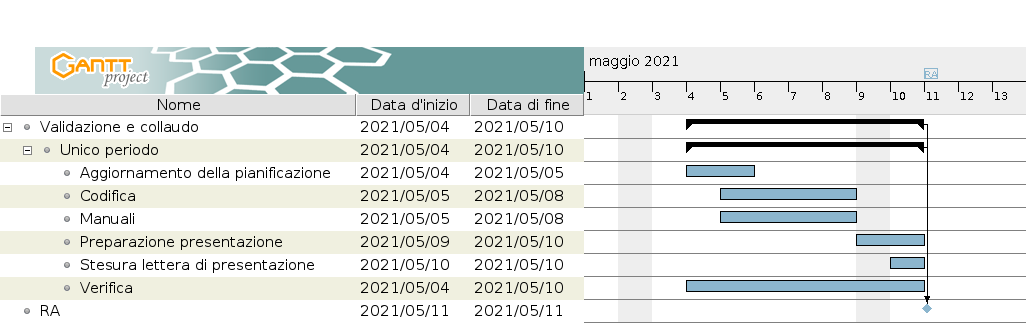
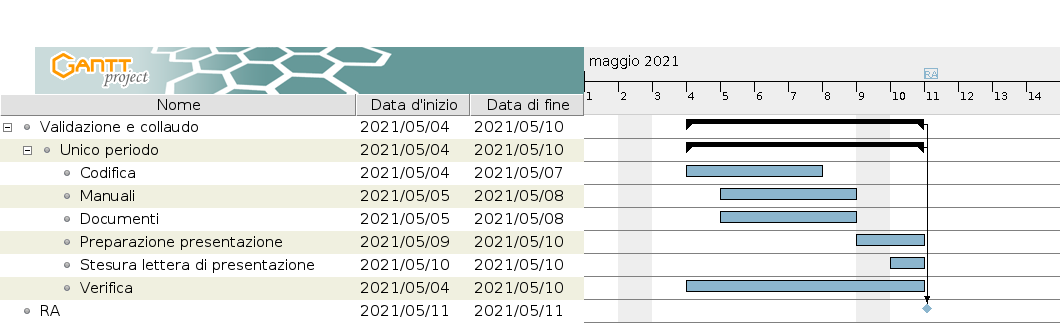
Modificato qualcosa nell'ultimo periodo della pianificazione

diff --git a/Esterni/PianoDiProgetto/res/sections/pianificazione/pianificazione.tex b/Esterni/PianoDiProgetto/res/sections/pianificazione/pianificazione.tex
@@ -640,12 +640,12 @@ Durante questa fase saranno presenti i seguenti ruoli:
     \item [] \textbf{Fine:} 2021-05-11
     \item [] \textbf{Attività}
           \begin{itemize}
-              \item \textbf{Aggiornamento della pianificazione;}
               \item \textbf{Codifica:} eventuali fix e rilascio ultima versione;
-              \item \textbf{Manuali:} revisione ed eventuale aggiornamento;
+              \item \textbf{Manuali:} revisione ed eventuali modifiche;
+              \item \textbf{Documenti:} calcolo del consuntivo di periodo e revisione dell'intera documentazione;
               \item \textbf{Preparazione presentazione:} preparazione della presentazione per la revisione di accettazione;
               \item \textbf{Stesura lettera di presentazione;}
-              \item \textbf{Verifica:} controllo della qualità dei prodotti sviluppati in questo periodo.
+              \item \textbf{Verifica:} esecuzione test di sistema e controllo della qualità dei prodotti di progetto.
           \end{itemize}
 \end{itemize}
 
